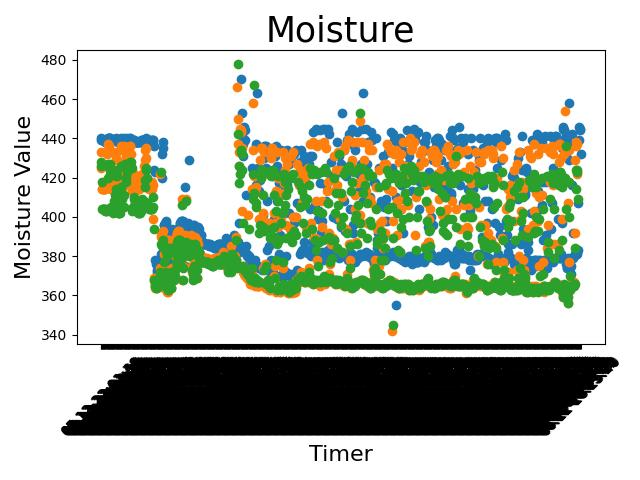
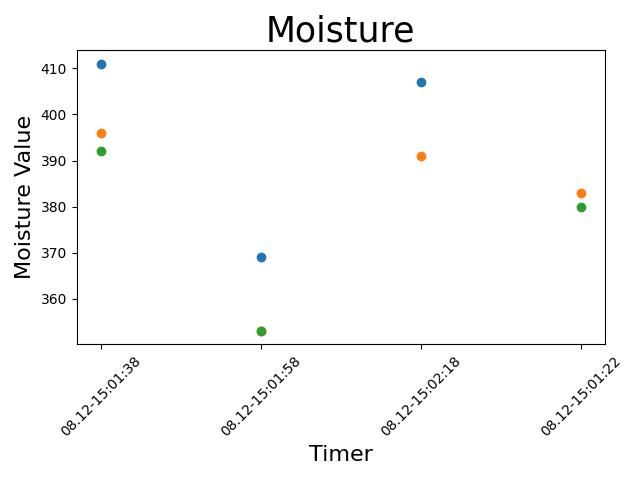
SQL_Class

diff --git a/MoistureEvaluationPython/DataHandeling.py b/MoistureEvaluationPython/DataHandeling.py
@@ -9,6 +9,7 @@ from email.mime.text import MIMEText
 from email.mime.base import MIMEBase
 from email import encoders
 from socket import gethostbyname, gaierror
+import SQLHandler
 
 import numpy as np
 import pandas as pd
@@ -20,59 +21,21 @@ import serial
 import schedule
 from threading import Thread
 
-global connectionSQL
-global cursor
 
-def evaluationThread(time):
-    try:
-        evaluateData(time)
-        sendDataMail()
-        print('thread is done.')
-    except Exception as e:
-        print(str(e))
 
-def do_something(time):
-    thread = Thread(target = evaluationThread, args = time)
-    thread.start()
-
-def test(sql, cursos):
+def do_something(number, sql):
     sql.close()
+    print("do" + str(number))
     evaluateData()
     sendDataMail()
 
-def creatNewSQLTable(last_time, first_iteration):
-    try:
-        if first_iteration:
-            new_time = last_time
-        else:
-            new_time = datetime.now().strftime('%H_%M')
-
-        sql_command = """CREATE TABLE {0} ( 
-                        _number INTEGER PRIMARY KEY, 
-                        _time DATE, 
-                        _sensor varchar(255), 
-                        _humidity INTEGER);""".format(str(new_time))
-
-
-        cursor.execute(sql_command)
-        if first_iteration:
-            do_something(last_time)
-
-        connectionSQL.commit()
-        return new_time #, connectionSQL, cursor
-    except sqlite3.OperationalError:
-        print("Table already existing")
-        return new_time
-
-
-
 
 def openSQL():
-    connectionSQL = sqlite3.connect("humidity.db")
+    connectionSQL = sqlite3.connect("moisture.db")
     cursor = connectionSQL.cursor()
     try:
         sql_command = """
-                                        CREATE TABLE humid ( 
+                                        CREATE TABLE moist ( 
                                         _number INTEGER PRIMARY KEY,
                                         _time DATE,
                                         _sensor varchar(255), 
@@ -81,10 +44,12 @@ def openSQL():
         cursor.execute(sql_command)
     except sqlite3.OperationalError:
         print("Table already existing")
+        sql_command = """DELETE FROM moist"""
+        cursor.execute(sql_command)
 
-    statement = "SELECT _number AS names FROM humid ORDER BY _number DESC LIMIT 1"
-    element = cursor.execute(statement)
-    lastEntry = element.fetchone()[0]
+    #statement = "SELECT _number AS names FROM moist ORDER BY _number DESC LIMIT 1"
+    #element = cursor.execute(statement)
+    lastEntry = 0 #element.fetchone()[0]
     return connectionSQL, cursor, lastEntry
 
 def safeSQL(conSQL):
@@ -96,11 +61,14 @@ def receivingDateLoop():
     ser = serial.Serial('COM5', 9600)
     time.sleep(2)
     runningNumber = 0
-    last_time= creatNewSQLTable(datetime.now().strftime('%H_%M'), True)
-    print(last_time)
-    schedule.every(2).minutes.do(creatNewSQLTable, time = last_time, first_iteration = False)
+    SQLHandlerObject = SQLHandler.SQLHandler()
+    schedule.every(20).seconds.do(scheduleTask, sqlHandler = SQLHandlerObject)
+    connectionSQL = SQLHandlerObject.getSQL()
+    cursor = connectionSQL.cursor()
+
+    #schedule.every(2).minutes.do(do_something, number = runningNumber, sql = connectionSQL)
+
     runningNumber = runningNumber + 1
-    #print(runningNumber)
     while True:
         #try:
         line = ser.readline()  # read a byte
@@ -109,27 +77,34 @@ def receivingDateLoop():
             string = line.decode()  # convert the byte string to a unicode string
             humidity = int(string[3:])  # convert the unicode string to an int
             sensor = string[0:2]
-            print(last_time)
-            format_str_v1 = """INSERT INTO {time} """.format(time = last_time)
-            format_str_v2 = """"(_number, _time, _sensor, _humidity) 
+            format_str_v1 = """INSERT INTO moist """
+            format_str_v2 = """(_number, _time, _sensor, _humidity) 
                             VALUES ("{_number}", "{_time}", "{_sensor}","{_humidity}");"""
 
-            print(format_str_v1)
+
 
             sql_command = format_str_v2.format(_number = runningNumber,  _time = times, _sensor = sensor, _humidity = humidity)
             cursor.execute(format_str_v1 + sql_command)
             runningNumber = runningNumber + 1
-            schedule.run_pending()
+
 
             #print(humidity)
-            if runningNumber%30 == 0:
-                safeSQL(connectionSQL)
+            if runningNumber%10 == 0:
+                time.sleep(1)
+                #safeSQL(connectionSQL)
+                SQLHandlerObject.setSQL(connectionSQL)
+                SQLHandlerObject.safeSQL()
+                #connectionSQL.close()
+                schedule.run_pending()
+                connectionSQL = SQLHandlerObject.getSQL()
+                cursor = connectionSQL.cursor()
+                #connectionSQL, cursor, last_entry = openSQL()
                 #if runningNumber%30==0:
                 #    test(connectionSQL, cursor)
                 #evaluateData()
                 #sendDataMail()
-                #connectionSQL, cursor, runningNumber = openSQL()
-                runningNumber = runningNumber + 1
+
+                #runningNumber = runningNumber + 1
 
 
         """except gaierror:
@@ -140,50 +115,63 @@ def receivingDateLoop():
             print(str(e))
             print("SEL")"""
 
+def scheduleTask(sqlHandler):
+    evaluateData(sqlHandler)
+    sendDataMail()
+    connectedSQL, cursor = sqlHandler.loadSQL()
+    sqlHandler.connectionSQL = connectedSQL
+    sqlHandler.cursor = cursor
 
-
-def evaluateData(time):
-    #con = sqlite3.connect("humidity.db")
-    #cursor = con.cursor()
+def evaluateData(sqlHandler):
+    sqlFile = sqlHandler.getSQL()
+    cursor = sqlFile.cursor()
+    #connectionSQL = sqlite3.connect("moisture.db")
+    #cursor = connectionSQL.cursor()
     #con = pyodbc.connect("humidity.db")
     query = """SELECT _number, 
                 _time,
                 _sensor,
                 _humidity
-               FROM {};""".format(time)
+               FROM moist;"""
     a = cursor.execute(query)
 
 
 
 
-    TM1 = pd.read_sql(query, connectionSQL)
+    TM1 = pd.read_sql(query, sqlFile)
 
     #TM1 = TM.head(100)
 
     s1Index = []
     s2Index = []
     s3Index = []
-    sxAxes = []
+    sx1Axes = []
+    sx2Axes = []
+    sx3Axes = []
 
     count = 0
     for count, item in enumerate(TM1['_sensor'].str.findall('s1'), start = 0):
         if item:
             s1Index.append(TM1['_humidity'][count])
-            sxAxes.append(TM1['_time'][count])
+            sx1Axes.append(TM1['_time'][count])
 
     count = 0
     for count, item in enumerate(TM1['_sensor'].str.findall('s2'), start = 0):
         if item:
             s2Index.append(TM1['_humidity'][count])
+            sx2Axes.append(TM1['_time'][count])
 
     count = 0
     for count, item in enumerate(TM1['_sensor'].str.findall('s3'), start = 0):
         if item:
             s3Index.append(TM1['_humidity'][count])
+            sx3Axes.append(TM1['_time'][count])
 
-    plt.scatter(sxAxes[:len(s1Index)], s1Index)
-    plt.scatter(sxAxes[:len(s2Index)], s2Index)
-    plt.scatter(sxAxes[:len(s3Index)], s3Index)
+    print(sx1Axes)
+    print(s2Index)
+    plt.scatter(sx1Axes[:len(s1Index)], s1Index)
+    plt.scatter(sx2Axes[:len(s2Index)], s2Index)
+    plt.scatter(sx3Axes[:len(s3Index)], s3Index)
     #plt.scatter( TM1['_number'], TM1['_humidity'])
     plt.xlabel("Timer", fontsize = 16)
     plt.ylabel("Moisture Value", fontsize = 16)
@@ -228,8 +216,6 @@ def sendDataMail():
 
 
 if __name__ == "__main__":
-    connectionSQL = sqlite3.connect("humidity.db")
-    cursor = connectionSQL.cursor()
     receivingDateLoop()
     #sendDataMail()
     #evaluateData()

diff --git a/MoistureEvaluationPython/SQLHandler.py b/MoistureEvaluationPython/SQLHandler.py
@@ -1,0 +1,45 @@
+import sqlite3
+
+
+class SQLHandler:
+
+    def __init__(self):
+        self.connectionSQL, self.cursor  = self.loadSQL()
+
+    def loadSQL(self):
+        connectionSQL = sqlite3.connect("moisture.db")
+        cursor = connectionSQL.cursor()
+        self.loadTable(cursor)
+        return connectionSQL, cursor
+
+    def loadTable(self, cursor):
+        try:
+            sql_command = """
+                            CREATE TABLE moist ( 
+                            _number INTEGER PRIMARY KEY,
+                            _time DATE,
+                            _sensor varchar(255), 
+                            _humidity INTEGER);"""
+
+            cursor.execute(sql_command)
+        except sqlite3.OperationalError:
+            print("Table already existing")
+            sql_command = """DELETE FROM moist"""
+            cursor.execute(sql_command)
+
+
+    def safeSQL(self):
+        self.connectionSQL.commit()
+
+    def setSQL(self, sqlInput):
+        self.connectionSQL = sqlInput
+
+    def getSQL(self):
+        return self.connectionSQL
+
+    def getCursor(self):
+        return self.cursor
+
+    def deleteTable(self):
+        pass
+
